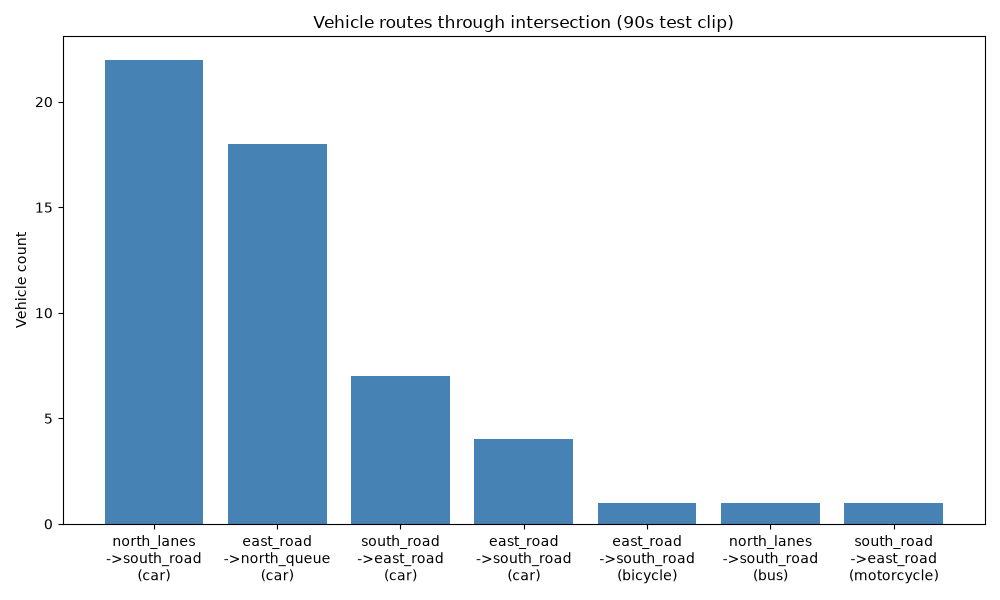
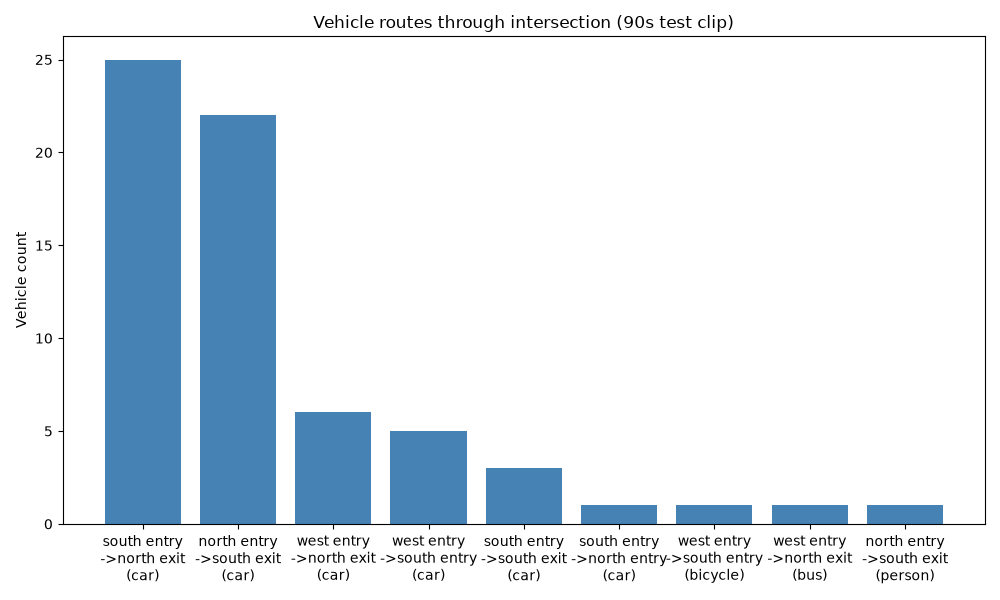
Add interactive Tkinter tool for drawing entry/exit zones
Replaces hand-coded pixel rectangles with click-drag-name zone
drawing on a video frame, saved to configs/zones.json. define_zones.py
now loads from that file instead of a hardcoded dict, so redefining
zones for new footage no longer requires editing code.

diff --git a/src/draw_zones.py b/src/draw_zones.py
@@ -1,0 +1,128 @@
+import argparse
+import json
+import tkinter as tk
+from pathlib import Path
+from tkinter import simpledialog
+
+import cv2
+from PIL import Image, ImageTk
+
+MAX_DISPLAY_SIZE = 1400
+
+
+def grab_frame(video_path):
+    cap = cv2.VideoCapture(video_path)
+    total_frames = int(cap.get(cv2.CAP_PROP_FRAME_COUNT))
+    cap.set(cv2.CAP_PROP_POS_FRAMES, total_frames // 2)
+    ok, frame = cap.read()
+    cap.release()
+    if not ok:
+        raise RuntimeError(f"Could not read a frame from {video_path}")
+    height, width = frame.shape[:2]
+    return frame, width, height
+
+
+class ZoneDrawer:
+    def __init__(self, root, video_path):
+        self.video_path = video_path
+        self.zones = {}  # name -> (x1, y1, x2, y2) in ORIGINAL video pixel coords
+        self.rect_start = None
+        self.live_rect_id = None
+
+        frame_bgr, self.orig_w, self.orig_h = grab_frame(video_path)
+        frame_rgb = cv2.cvtColor(frame_bgr, cv2.COLOR_BGR2RGB)
+
+        self.scale = min(MAX_DISPLAY_SIZE / self.orig_w, MAX_DISPLAY_SIZE / self.orig_h, 1.0)
+        disp_w, disp_h = int(self.orig_w * self.scale), int(self.orig_h * self.scale)
+
+        image = Image.fromarray(frame_rgb).resize((disp_w, disp_h))
+        self.photo = ImageTk.PhotoImage(image)
+
+        self.canvas = tk.Canvas(root, width=disp_w, height=disp_h, cursor="cross")
+        self.canvas.pack(side=tk.TOP)
+        self.canvas.create_image(0, 0, anchor=tk.NW, image=self.photo)
+
+        self.canvas.bind("<ButtonPress-1>", self.on_press)
+        self.canvas.bind("<B1-Motion>", self.on_drag)
+        self.canvas.bind("<ButtonRelease-1>", self.on_release)
+
+        button_bar = tk.Frame(root)
+        button_bar.pack(side=tk.TOP, fill=tk.X)
+        tk.Button(button_bar, text="Undo Last", command=self.undo_last).pack(side=tk.LEFT)
+        tk.Button(button_bar, text="Clear All", command=self.clear_all).pack(side=tk.LEFT)
+        tk.Button(button_bar, text="Save & Exit", command=self.save_and_exit).pack(side=tk.LEFT)
+
+        self.root = root
+
+    def on_press(self, event):
+        self.rect_start = (event.x, event.y)
+
+    def on_drag(self, event):
+        if self.live_rect_id is not None:
+            self.canvas.delete(self.live_rect_id)
+        x0, y0 = self.rect_start
+        self.live_rect_id = self.canvas.create_rectangle(x0, y0, event.x, event.y, outline="lime", width=2)
+
+    def on_release(self, event):
+        if self.live_rect_id is not None:
+            self.canvas.delete(self.live_rect_id)
+            self.live_rect_id = None
+
+        x0, y0 = self.rect_start
+        x1, y1 = event.x, event.y
+        if abs(x1 - x0) < 5 or abs(y1 - y0) < 5:
+            return  # accidental click/tiny drag, ignore
+
+        name = simpledialog.askstring("Zone name", "Name this zone:", parent=self.root)
+        if not name:
+            return
+
+        # Canvas coords -> original video pixel coords, and normalize corner order.
+        orig_box = (
+            round(min(x0, x1) / self.scale),
+            round(min(y0, y1) / self.scale),
+            round(max(x0, x1) / self.scale),
+            round(max(y0, y1) / self.scale),
+        )
+        self.zones[name] = orig_box
+        self.redraw()
+
+    def redraw(self):
+        self.canvas.delete("zone")
+        for name, (x1, y1, x2, y2) in self.zones.items():
+            dx1, dy1, dx2, dy2 = x1 * self.scale, y1 * self.scale, x2 * self.scale, y2 * self.scale
+            self.canvas.create_rectangle(dx1, dy1, dx2, dy2, outline="lime", width=2, tags="zone")
+            self.canvas.create_text(dx1 + 5, dy1 + 12, text=name, fill="lime", anchor=tk.NW, tags="zone")
+
+    def undo_last(self):
+        if self.zones:
+            self.zones.popitem()
+            self.redraw()
+
+    def clear_all(self):
+        self.zones.clear()
+        self.redraw()
+
+    def save_and_exit(self):
+        config = {
+            "video": self.video_path,
+            "frame_width": self.orig_w,
+            "frame_height": self.orig_h,
+            "zones": {name: list(box) for name, box in self.zones.items()},
+        }
+        out_path = Path("configs/zones.json")
+        with open(out_path, "w") as f:
+            json.dump(config, f, indent=2)
+        print(f"Saved {len(self.zones)} zone(s) to {out_path}")
+        self.root.destroy()
+
+
+if __name__ == "__main__":
+    parser = argparse.ArgumentParser(description="Interactively draw entry/exit zones on a video frame.")
+    parser.add_argument("video", nargs="?", default="data/raw/traffic_cam_footage.mp4")
+    args = parser.parse_args()
+
+    root = tk.Tk()
+    root.title("Draw zones - drag to draw, click Save & Exit when done")
+    ZoneDrawer(root, args.video)
+    root.mainloop()

diff --git a/src/define_zones.py b/src/define_zones.py
@@ -1,13 +1,18 @@
+import json
+from pathlib import Path
+
 import cv2
 
-# Rectangles as (x1, y1, x2, y2) in original 3840x2160 pixel coordinates,
-# top-left and bottom-right corners of each zone.
-ZONES = {
-    "north_lanes": (0, 0, 1248, 614),
-    "north_queue": (1248, 0, 1920, 518),
-    "east_road": (2784, 288, 3840, 1056),
-    "south_road": (1152, 1056, 2496, 2160),
-}
+ZONES_FILE = Path("configs/zones.json")
+
+
+def load_zones(path=ZONES_FILE):
+    with open(path) as f:
+        config = json.load(f)
+    return {name: tuple(box) for name, box in config["zones"].items()}
+
+
+ZONES = load_zones()
 
 if __name__ == "__main__":
     frame = cv2.imread("data/processed/clean_frame.png")